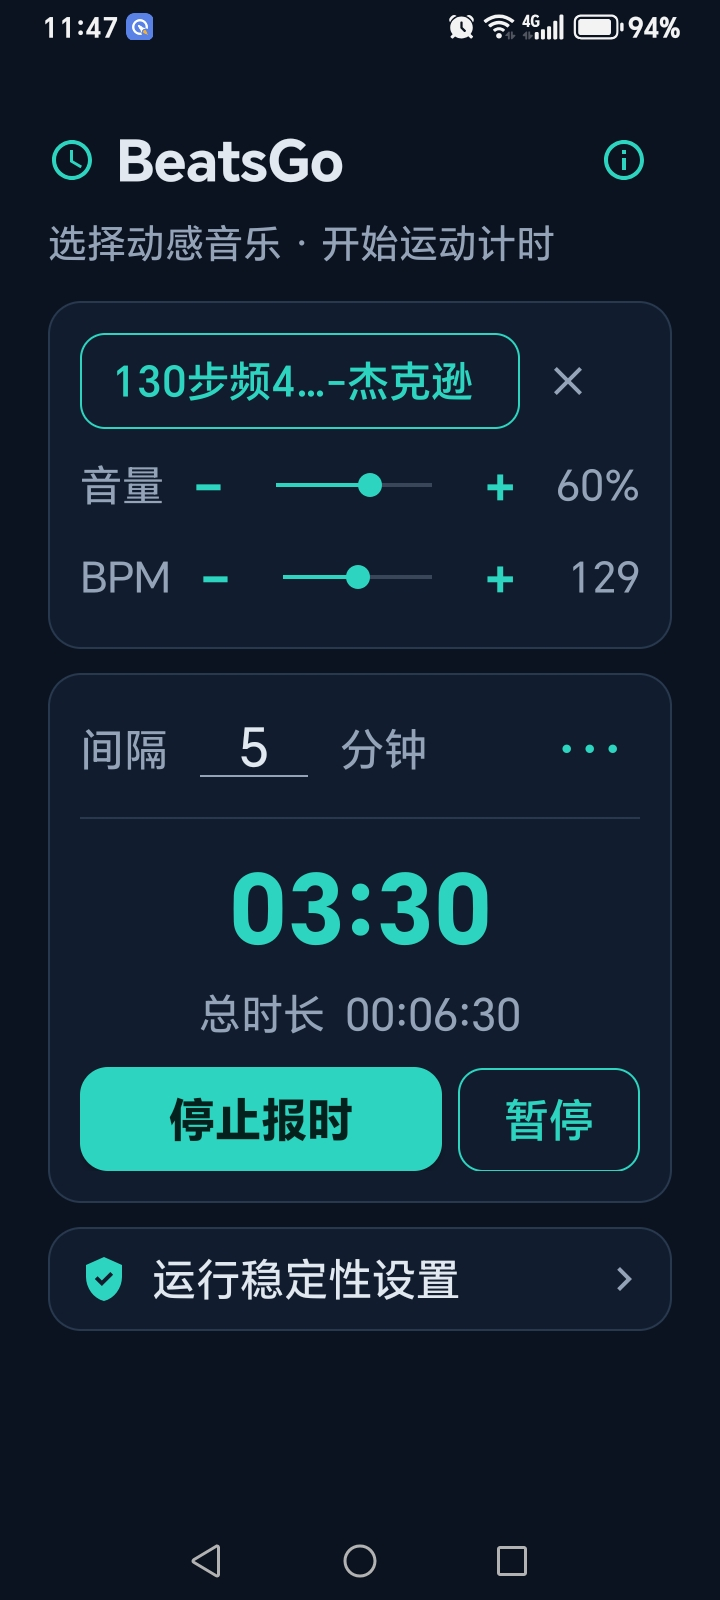
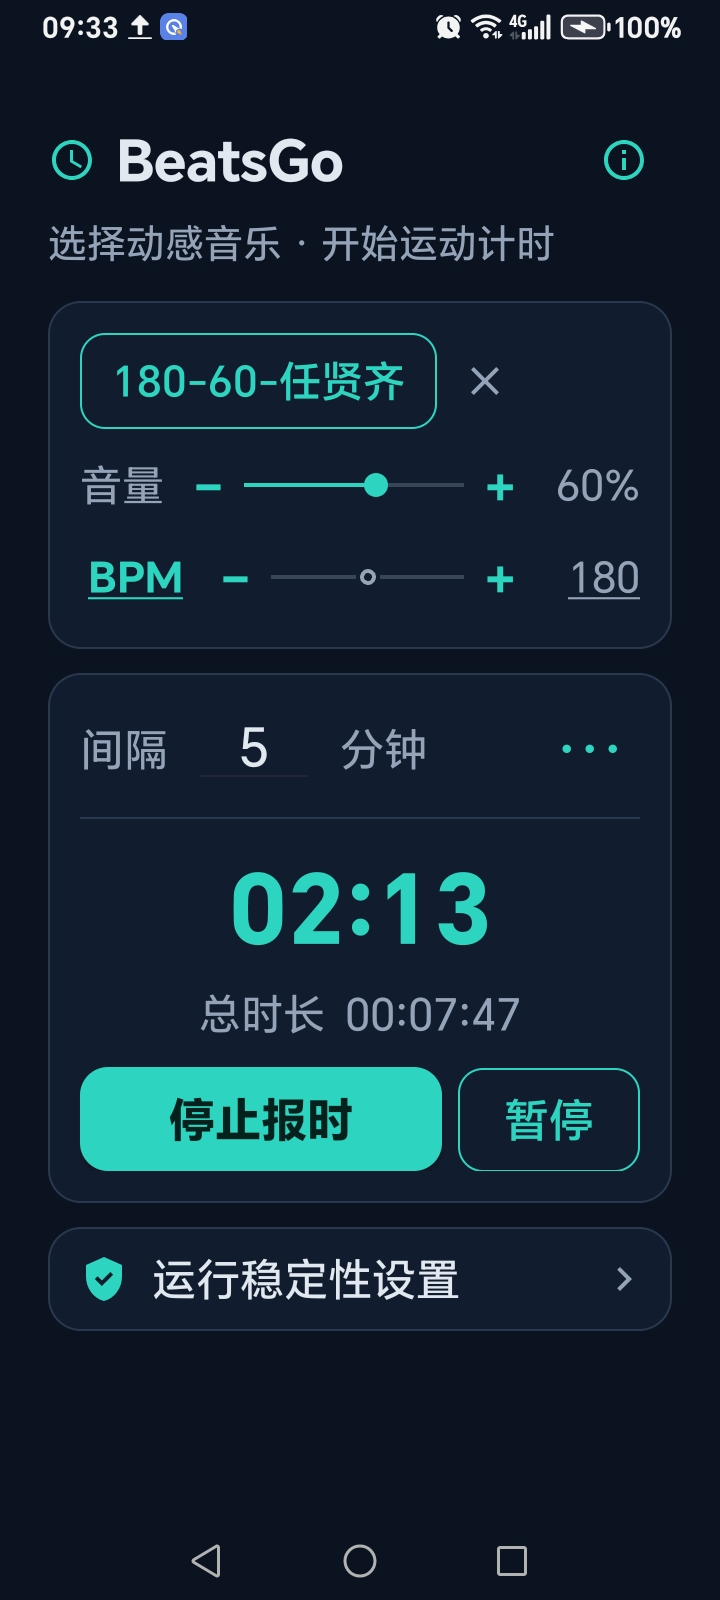
docs: 更新应用运行时截图，新增可变 BPM 设定页（语音提示定制与关于顺延编号）

diff --git a/README.md b/README.md
@@ -26,11 +26,12 @@ BeatsGo 是一款为运动场景设计的 Android 应用：一边播放你喜欢
 <p align="center">
   <img src="screenshots/1-main.jpg" width="200" alt="主界面" />
   <img src="screenshots/2-privileges.jpg" width="200" alt="运行稳定性设置" />
-  <img src="screenshots/3-options.jpg" width="200" alt="语音提示定制" />
-  <img src="screenshots/4-about.jpg" width="200" alt="关于" />
+  <img src="screenshots/3-variable-BPM.jpg" width="200" alt="可变 BPM 设定" />
+  <img src="screenshots/4-options.jpg" width="200" alt="语音提示定制" />
+  <img src="screenshots/5-about.jpg" width="200" alt="关于" />
 </p>
 
-从左到右依次为：**主界面**（报时间隔 / 倒计时与总时长 / 开始-停止、暂停-恢复 / 选音乐、音量与 BPM / 稳定性设置入口）、**运行稳定性设置**（电池优化、通知、精确闹钟授权及厂商后台指引）、**语音提示定制**（勾选并自定义"已完成 xx 分钟""请补充水分""坚持运动，加油"播报）、**关于**（应用介绍、使用步骤、运动音乐 BPM 建议与开源支持）。
+从左到右依次为：**主界面**（报时间隔 / 倒计时与总时长 / 开始-停止、暂停-恢复 / 选音乐、音量与 BPM / 稳定性设置入口）、**运行稳定性设置**（电池优化、通知、精确闹钟授权及厂商后台指引）、**可变 BPM 设定**（七阶段法特莱克跑变速方案：启用开关、各阶段 BPM 与时长/增减量编辑、总时长汇总与一键恢复缺省）、**语音提示定制**（勾选并自定义"已完成 xx 分钟""请补充水分""坚持运动，加油"播报）、**关于**（应用介绍、使用步骤、运动音乐 BPM 建议与开源支持）。
 
 ## 工程结构
 
